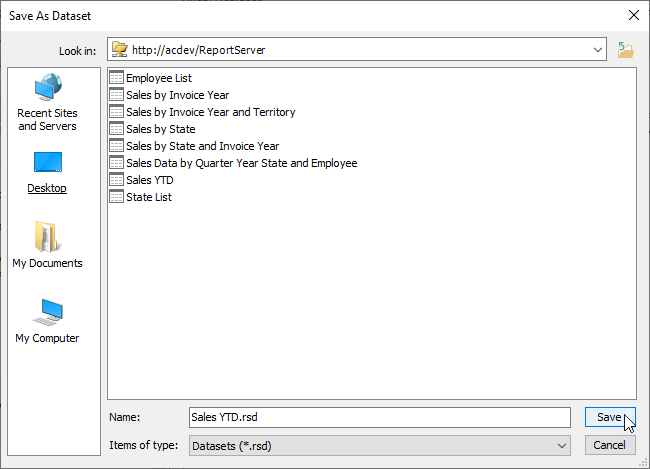
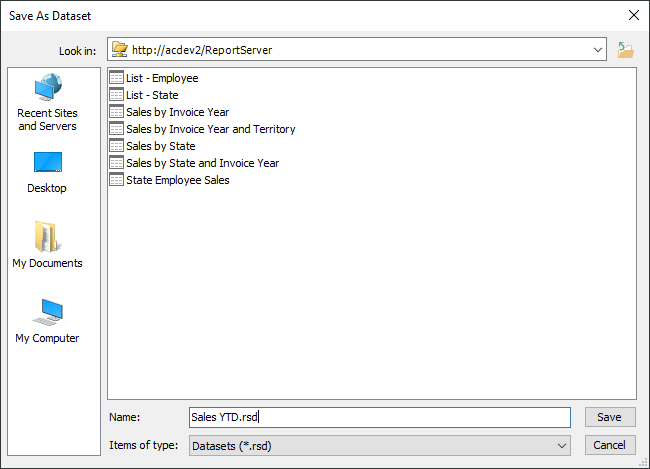
Updating dashboards

diff --git a/Dashboards/Basic_Sales_Dashboard/02-Adding_Data.md b/Dashboards/Basic_Sales_Dashboard/02-Adding_Data.md
@@ -56,9 +56,16 @@ Once added, you'll see a sample of the data. Note it is in a tab beside the "bog
 
 Using the same steps above, add the remaining datasets to your report:
 
-* Sales Goal
-* Sales Details
-* Sales Over Time by State
-* Sales Tree
+* Sales YTD
+* Sales by Invoice Year
+* Sales by State and Invoice Year
+* Sales by State
+* Sales by Invoice Year and Territory
 
+## Conclusion
 
+When done, you should now see all the datasets across the bottom, along with the simulated datasets provided by the Mobile Report Publisher.
+
+![All Datasets](./../images/add-data-all.png)
+
+You are now ready to move onto the next section, linking the report components to the data.

diff --git a/Dashboards/Basic_Sales_Dashboard/03-Linking_Report_Components.md b/Dashboards/Basic_Sales_Dashboard/03-Linking_Report_Components.md
@@ -1,0 +1,1 @@
+# Linking Report components
